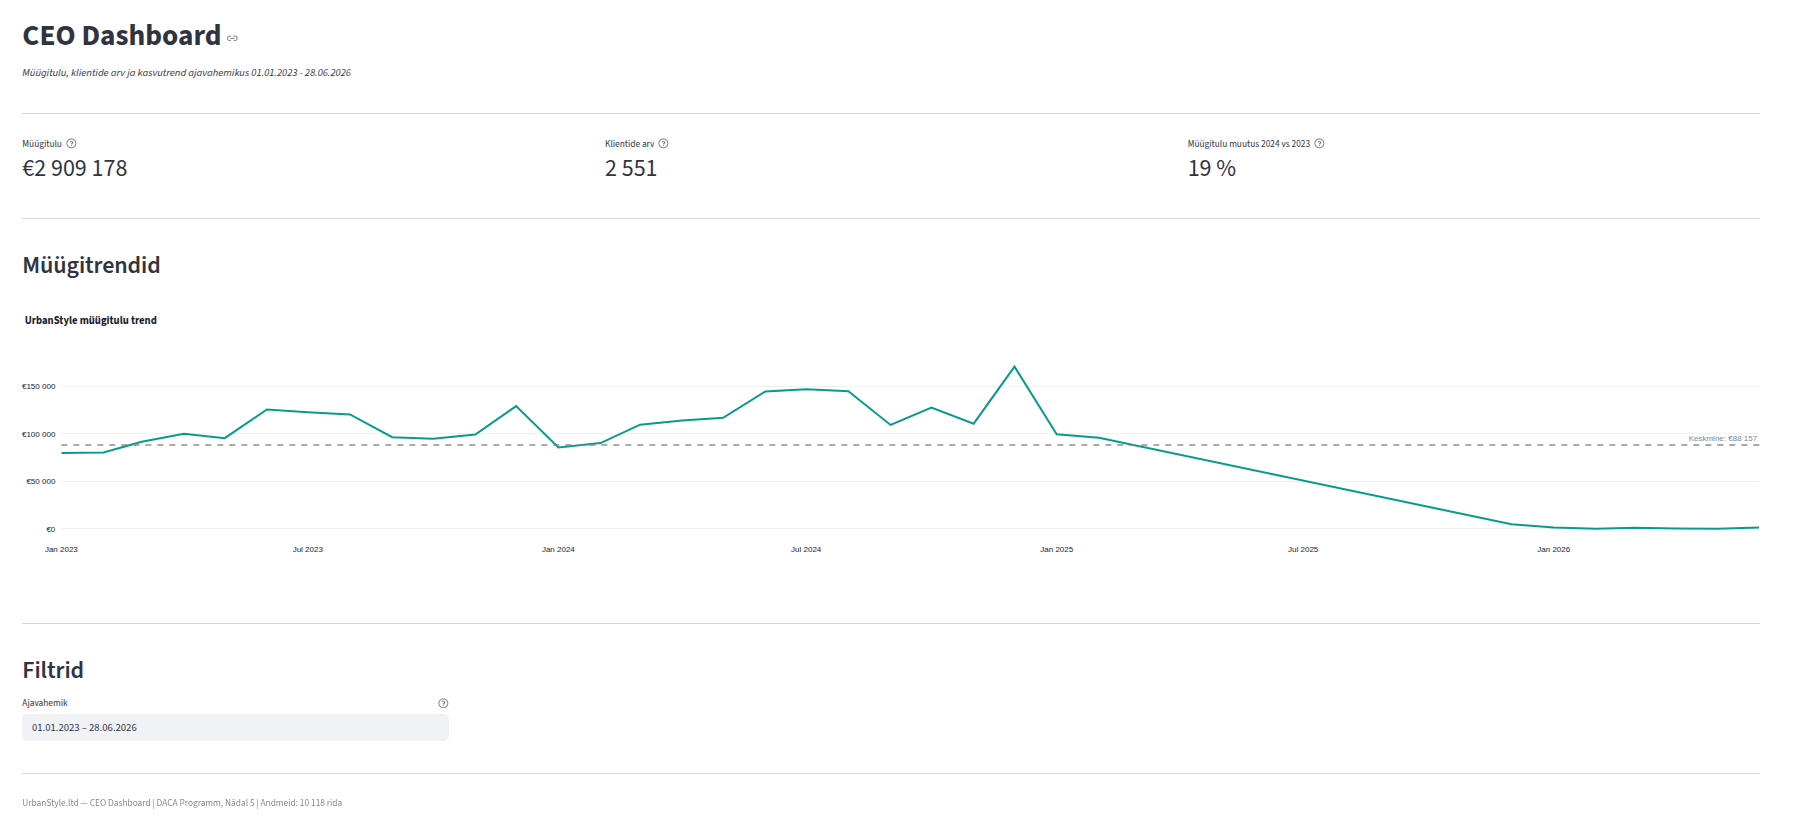
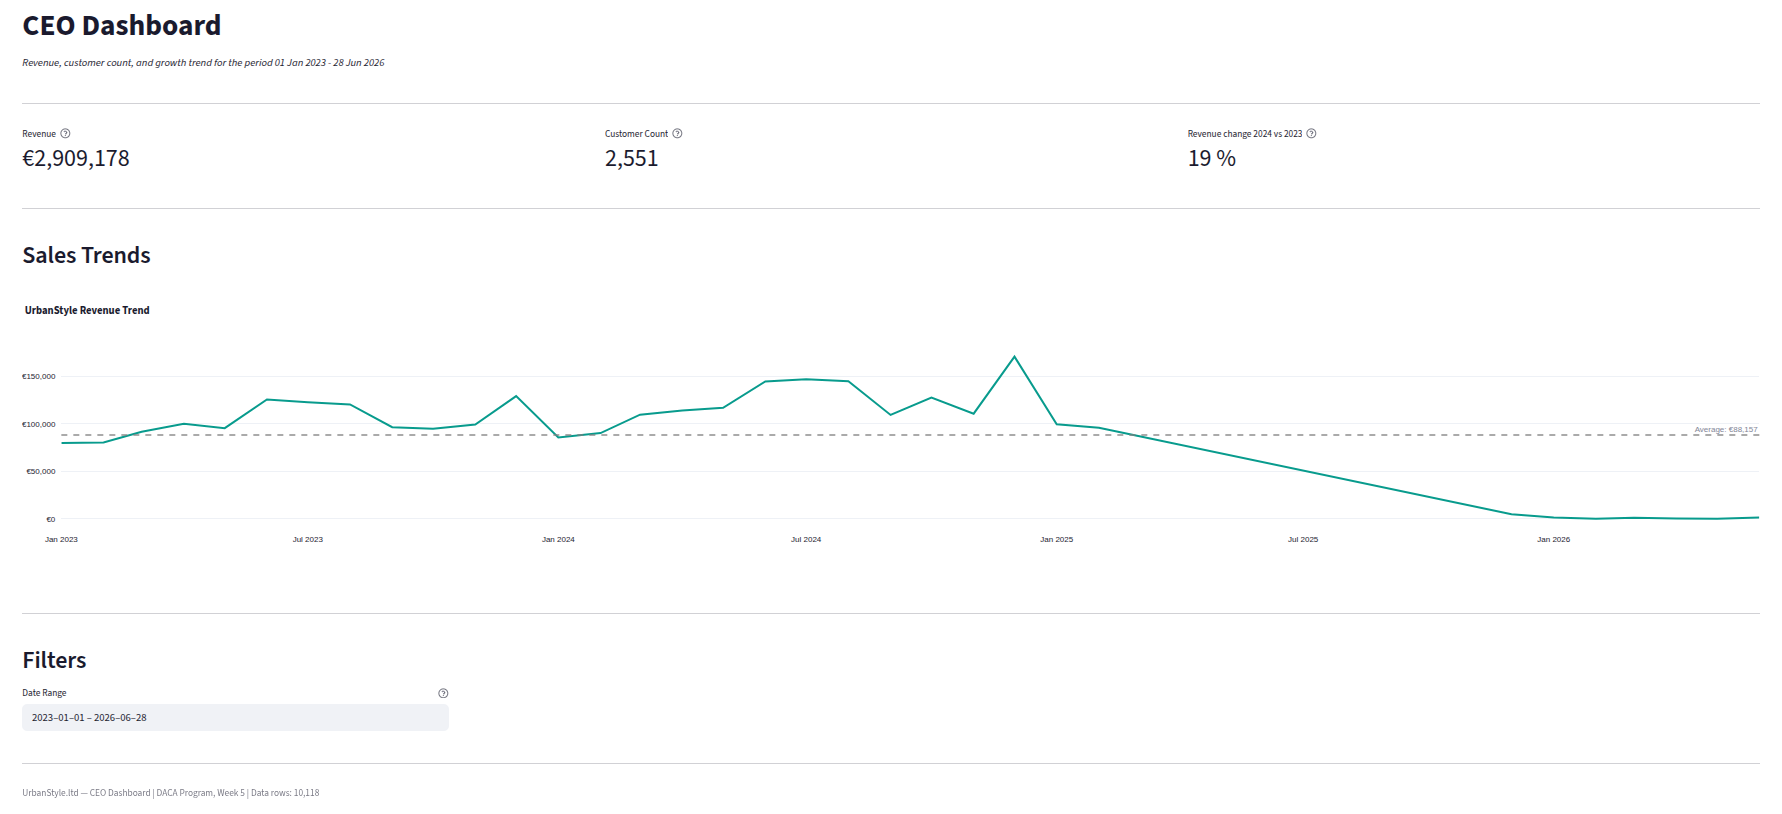
Use English date and number formats for week 5 dashboard

diff --git a/portfolio/week-05/individual/dashboard/utils.py b/portfolio/week-05/individual/dashboard/utils.py
@@ -3,15 +3,27 @@ import math
 
 def format_date(date):
     """
-    Formats a date object into a string using the DD.MM.YYYY format.
+    Formats a date object into a string using the "DD Mon YYYY" format.
 
     Args:
         date (datetime.date): The date object to format.
 
     Returns:
-        str: The formatted date string.
+        str: The formatted date string (e.g., "05 Jun 2024").
     """
-    return date.strftime("%d.%m.%Y")
+    return date.strftime("%d %b %Y")
+
+def format_date_month_precision(date):
+    """
+    Formats a date object into a string using the "Mon YYYY" format.
+
+    Args:
+        date (datetime.date): The date object to format.
+
+    Returns:
+        str: The formatted date string (e.g., "Jun 2024").
+    """
+    return date.strftime("%b %Y")
 
 def calculate_previous_open_date_range(open_date_range):
     """
@@ -49,6 +61,48 @@ def format_metric_delta_as_percentage(metric_delta):
         return f"{metric_delta:.0f} %"
     else:
         return None
+
+def format_eur_amount(value, precision=0):
+    """
+    Formats a numeric value as a Euro amount string, using comma as thousands
+    separator and dot as decimal separator, with an Euro symbol prefix.
+
+    Args:
+        value (float or int): The numeric value to format.
+        precision (int): The number of decimal places.
+
+    Returns:
+        str: The formatted Euro amount string (e.g., "€1,234.00").
+    """
+    return f"€{value:,.{precision}f}"
+
+def format_as_percentage(value, precision=0):
+    """
+    Formats a numeric value as a percentage string, using comma as thousands
+    separator and dot as decimal separator, with a percentage symbol suffix.
+
+    Args:
+        value (float or int): The numeric value to format.
+        precision (int): The number of decimal places.
+
+    Returns:
+        str: The formatted percentage string (e.g., "10.00 %").
+    """
+    return f"{value:,.{precision}f} %"
+
+def format_number(value, precision=0):
+    """
+    Formats a numeric value as a string, using comma as thousands separator
+    and dot as decimal separator.
+
+    Args:
+        value (float or int): The numeric value to format.
+        precision (int): The number of decimal places.
+
+    Returns:
+        str: The formatted number string (e.g., "1,234").
+    """
+    return f"{value:,.{precision}f}"
 
 def calculate_delta_in_percents(current_metric, previous_metric):
     """

diff --git a/portfolio/week-05/individual/dashboard/app.py b/portfolio/week-05/individual/dashboard/app.py
@@ -103,7 +103,7 @@ def add_date_range_filter(filters, container, default_filter_settings):
 
     date_range = container.date_input(
         "Date Range",
-        format="DD.MM.YYYY",
+        format="YYYY-MM-DD", # Streamlit's date input format, not display format
         value=(min_date, max_date),
         min_value=min_date,
         max_value=max_date,
@@ -215,7 +215,7 @@ def fill_kpis_section(kpis_section, filters):
 
         col1.metric(
             label="Revenue",
-            value=f"€{total_revenue:,.0f}".replace(",", " "),
+            value=utils.format_eur_amount(total_revenue, 0),
             delta=utils.format_metric_delta_as_percentage(total_revenue_delta),
             help="Total revenue for the selected period"
         )
@@ -227,7 +227,7 @@ def fill_kpis_section(kpis_section, filters):
 
         col2.metric(
             label="Customer Count",
-            value=f"{total_customers:,}".replace(",", " "),
+            value=utils.format_number(total_customers, 0),
             delta=utils.format_metric_delta_as_percentage(total_customers_delta),
             help="Number of unique customers in the selected period"
         )
@@ -239,7 +239,7 @@ def fill_kpis_section(kpis_section, filters):
         kpi3_total_revenue_delta = kpi3_total_revenue_with_change[1]
 
         if kpi3_total_revenue_delta:
-            value_text = f"{kpi3_total_revenue_delta:,.0f} %".replace(",", " ")
+            value_text = utils.format_as_percentage(kpi3_total_revenue_delta, 0)
             col3.metric(
                 label=f"Revenue change {kpi3_year} vs {kpi3_comparison_year}",
                 value=value_text,
@@ -268,7 +268,7 @@ def render_footer(data):
     Args:
         data (dict): Dictionary containing all fetched data.
     """
-    orders_text = f"{data['aggregated_sales']['orders'].sum():,}".replace(",", " ")
+    orders_text = utils.format_number(data["aggregated_sales"]["orders"].sum(), 0)
     st.caption(
         "UrbanStyle.ltd — CEO Dashboard | "
         "DACA Program, Week 5 | "

diff --git a/portfolio/week-05/individual/dashboard/charts.py b/portfolio/week-05/individual/dashboard/charts.py
@@ -3,6 +3,7 @@ UrbanStyle Dashboard — Chart Creation
 """
 
 import plotly.express as px
+import utils
 
 def create_revenue_trend(df):
     """
@@ -47,7 +48,7 @@ def create_revenue_trend(df):
         hovermode="x unified",
         yaxis_tickformat=",.0f",
         yaxis_tickprefix="€",
-        separators=", "
+        separators=".," # Thousands separator is comma, decimal separator is dot
     )
 
     fig.update_traces(line_color="#009B8D", line_width=3)
@@ -57,7 +58,7 @@ def create_revenue_trend(df):
         y=avg_revenue,
         line_dash="dash",
         line_color="gray",
-        annotation_text=f"Average: €{avg_revenue:,.0f}".replace(",", " "),
+        annotation_text=f"Average: {utils.format_eur_amount(avg_revenue, 0)}",
         annotation_position="top right"
     )
 
